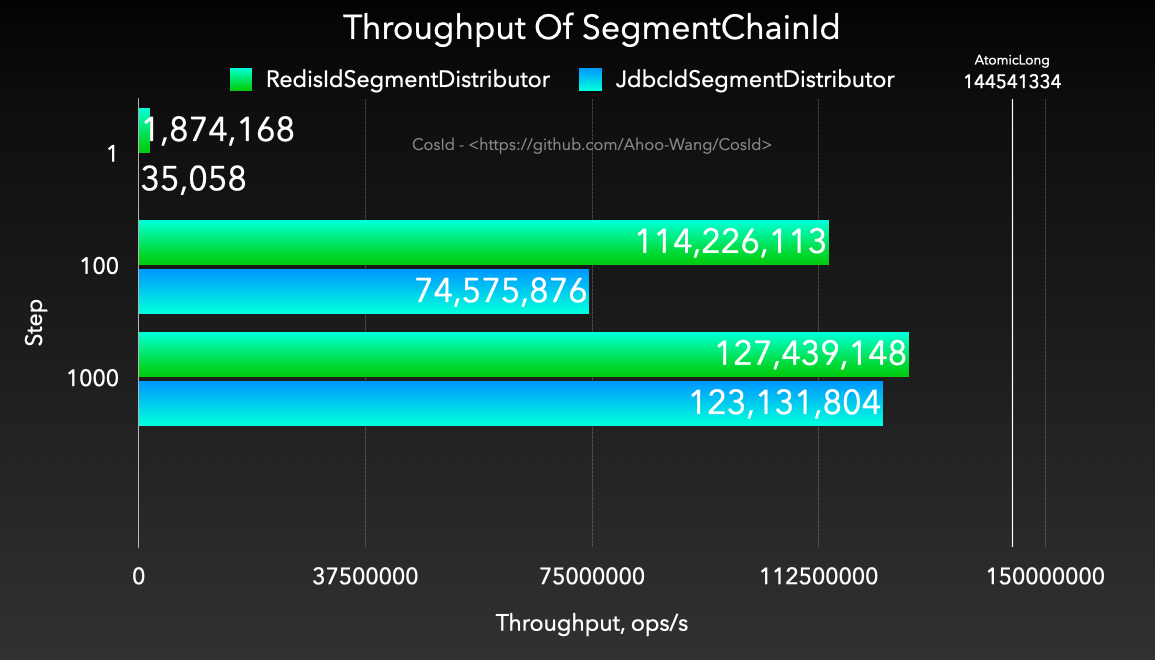
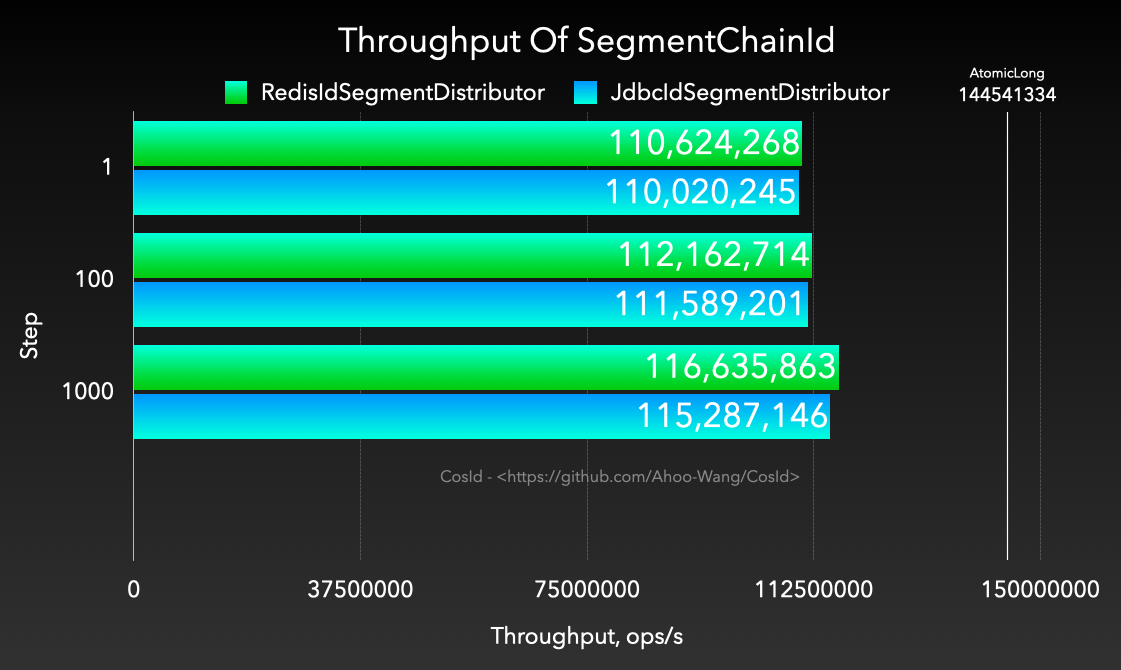
- update version - update Throughput report

diff --git a/document/docs/guide/perf-test.md b/document/docs/guide/perf-test.md
@@ -17,28 +17,26 @@
 ``` shell
 gradle cosid-redis:jmh
 # or
-java -jar cosid-redis/build/libs/cosid-redis-1.6.6-jmh.jar -bm thrpt -wi 1 -rf json -f 1 RedisChainIdBenchmark
+java -jar cosid-redis/build/libs/cosid-redis-1.7.9-jmh.jar -bm thrpt -wi 1 -rf json -f 1 RedisChainIdBenchmark
 ```
 
 ```
-Benchmark                                   Mode  Cnt          Score          Error  Units
-RedisChainIdBenchmark.atomicLong_baseline  thrpt    5  144541334.198 ±  5578137.471  ops/s
-RedisChainIdBenchmark.step_1               thrpt    5    1874168.687 ±   310274.706  ops/s
-RedisChainIdBenchmark.step_100             thrpt    5  114226113.524 ± 15789563.078  ops/s
-RedisChainIdBenchmark.step_1000            thrpt    5  127439148.104 ±  1833743.699  ops/s
+Benchmark                       (step)   Mode  Cnt          Score          Error  Units
+RedisChainIdBenchmark.generate       1  thrpt    5  106188349.580 ± 26035022.285  ops/s
+RedisChainIdBenchmark.generate     100  thrpt    5  112276460.950 ±  4091990.852  ops/s
+RedisChainIdBenchmark.generate    1000  thrpt    5  110181522.770 ± 15531341.449  ops/s
 ```
 ``` shell
 gradle cosid-jdbc:jmh
 # or
-java -jar cosid-jdbc/build/libs/cosid-jdbc-1.6.6-jmh.jar -bm thrpt -wi 1 -rf json -f 1 MySqlChainIdBenchmark
+java -jar cosid-jdbc/build/libs/cosid-jdbc-1.7.9-jmh.jar -bm thrpt -wi 1 -rf json -f 1 MySqlChainIdBenchmark
 ```
 
 ```
-Benchmark                                   Mode  Cnt          Score         Error  Units
-MySqlChainIdBenchmark.atomicLong_baseline  thrpt    5  145294642.937 ±  224876.284  ops/s
-MySqlChainIdBenchmark.step_1               thrpt    5      35058.790 ±   36226.041  ops/s
-MySqlChainIdBenchmark.step_100             thrpt    5   74575876.804 ± 5590390.811  ops/s
-MySqlChainIdBenchmark.step_1000            thrpt    5  123131804.260 ± 1488004.409  ops/s
+Benchmark                       (step)   Mode  Cnt          Score         Error  Units
+MySqlChainIdBenchmark.generate       1  thrpt    5  110020245.619 ± 4514432.472  ops/s
+MySqlChainIdBenchmark.generate     100  thrpt    5  111589201.024 ± 1565714.192  ops/s
+MySqlChainIdBenchmark.generate    1000  thrpt    5  115287146.614 ± 4471990.880  ops/s
 ```
 
 ### 每次操作耗时的百分位数(us/op)
@@ -50,7 +48,7 @@ MySqlChainIdBenchmark.step_1000            thrpt    5  123131804.260 ± 1488004.
 </p>
 
 ```shell
-java -jar cosid-redis/build/libs/cosid-redis-1.6.6-jmh.jar -bm sample -wi 1 -rf json -f 1 -tu us step_1000
+java -jar cosid-redis/build/libs/cosid-redis-1.7.9-jmh.jar -bm sample -wi 1 -rf json -f 1 -tu us step_1000
 ```
 
 ```
@@ -67,7 +65,7 @@ RedisChainIdBenchmark.step_1000:step_1000·p1.00    sample           37.440     
 ```
 
 ```shell
-java -jar cosid-jdbc/build/libs/cosid-jdbc-1.6.6-jmh.jar -bm sample -wi 1 -rf json -f 1 -tu us step_1000
+java -jar cosid-jdbc/build/libs/cosid-jdbc-1.7.9-jmh.jar -bm sample -wi 1 -rf json -f 1 -tu us step_1000
 ```
 
 ```
@@ -88,7 +86,7 @@ MySqlChainIdBenchmark.step_1000:step_1000·p1.00    sample           342.528    
 ``` shell
 gradle cosid-core:jmh
 # or
-java -jar cosid-core/build/libs/cosid-core-1.6.6-jmh.jar -bm thrpt -wi 1 -rf json -f 1
+java -jar cosid-core/build/libs/cosid-core-1.7.9-jmh.jar -bm thrpt -wi 1 -rf json -f 1
 ```
 
 ```

diff --git a/README.md b/README.md
@@ -484,7 +484,7 @@ spring:
 > Kotlin DSL
 
 ``` kotlin
-    val cosidVersion = "1.7.6";
+    val cosidVersion = "1.7.9";
     implementation("me.ahoo.cosid:cosid-spring-boot-starter:${cosidVersion}")
 ```
 
@@ -500,7 +500,7 @@ spring:
     <modelVersion>4.0.0</modelVersion>
     <artifactId>demo</artifactId>
     <properties>
-        <cosid.version>1.7.6</cosid.version>
+        <cosid.version>1.7.9</cosid.version>
     </properties>
 
     <dependencies>
@@ -720,7 +720,7 @@ cosid:
 ``` shell
 gradle cosid-core:jmh
 # or
-java -jar cosid-core/build/libs/cosid-core-1.7.6-jmh.jar -bm thrpt -wi 1 -rf json -f 1
+java -jar cosid-core/build/libs/cosid-core-1.7.9-jmh.jar -bm thrpt -wi 1 -rf json -f 1
 ```
 
 ```

diff --git a/wiki/getting-started.md b/wiki/getting-started.md
@@ -470,7 +470,7 @@ spring:
 > Kotlin DSL
 
 ``` kotlin
-    val cosidVersion = "1.7.6";
+    val cosidVersion = "1.7.9";
     implementation("me.ahoo.cosid:cosid-spring-boot-starter:${cosidVersion}")
 ```
 
@@ -486,7 +486,7 @@ spring:
     <modelVersion>4.0.0</modelVersion>
     <artifactId>demo</artifactId>
     <properties>
-        <cosid.version>1.7.6</cosid.version>
+        <cosid.version>1.7.9</cosid.version>
     </properties>
 
     <dependencies>
